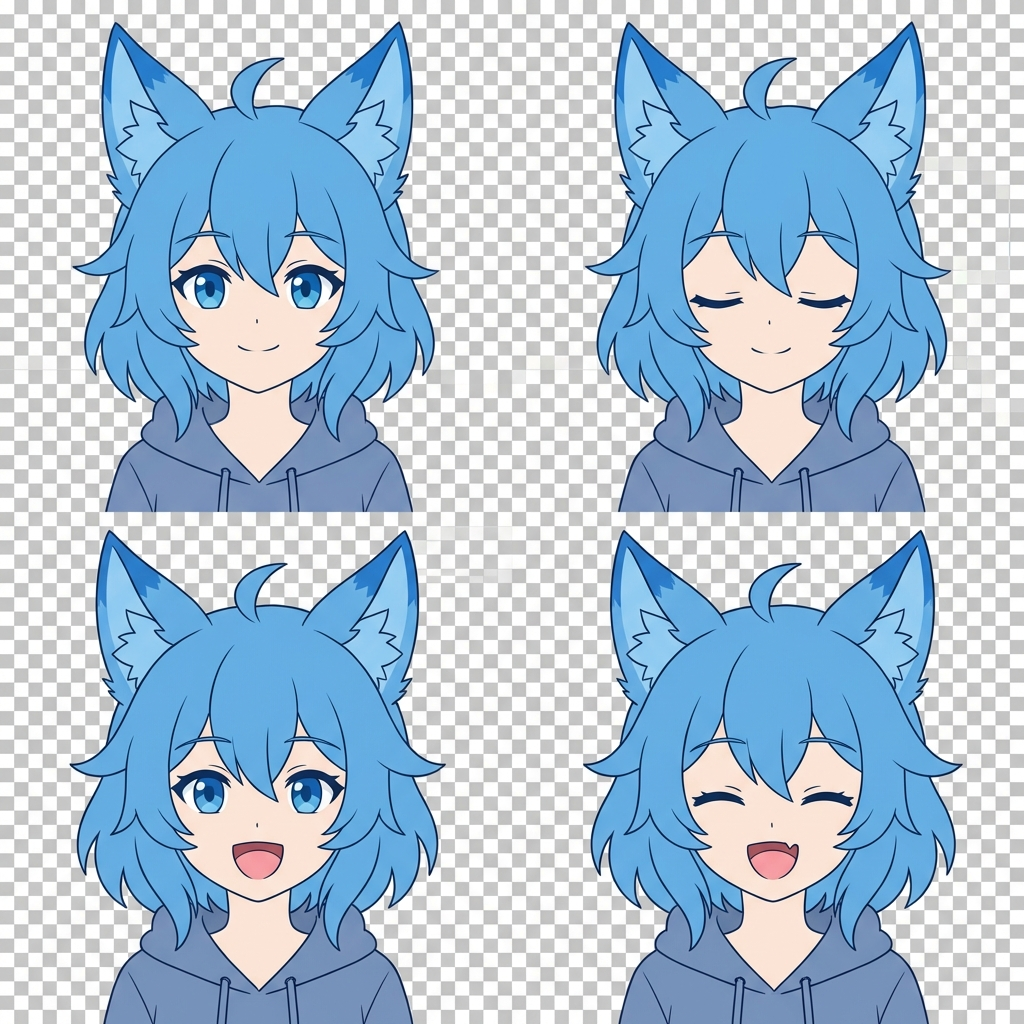
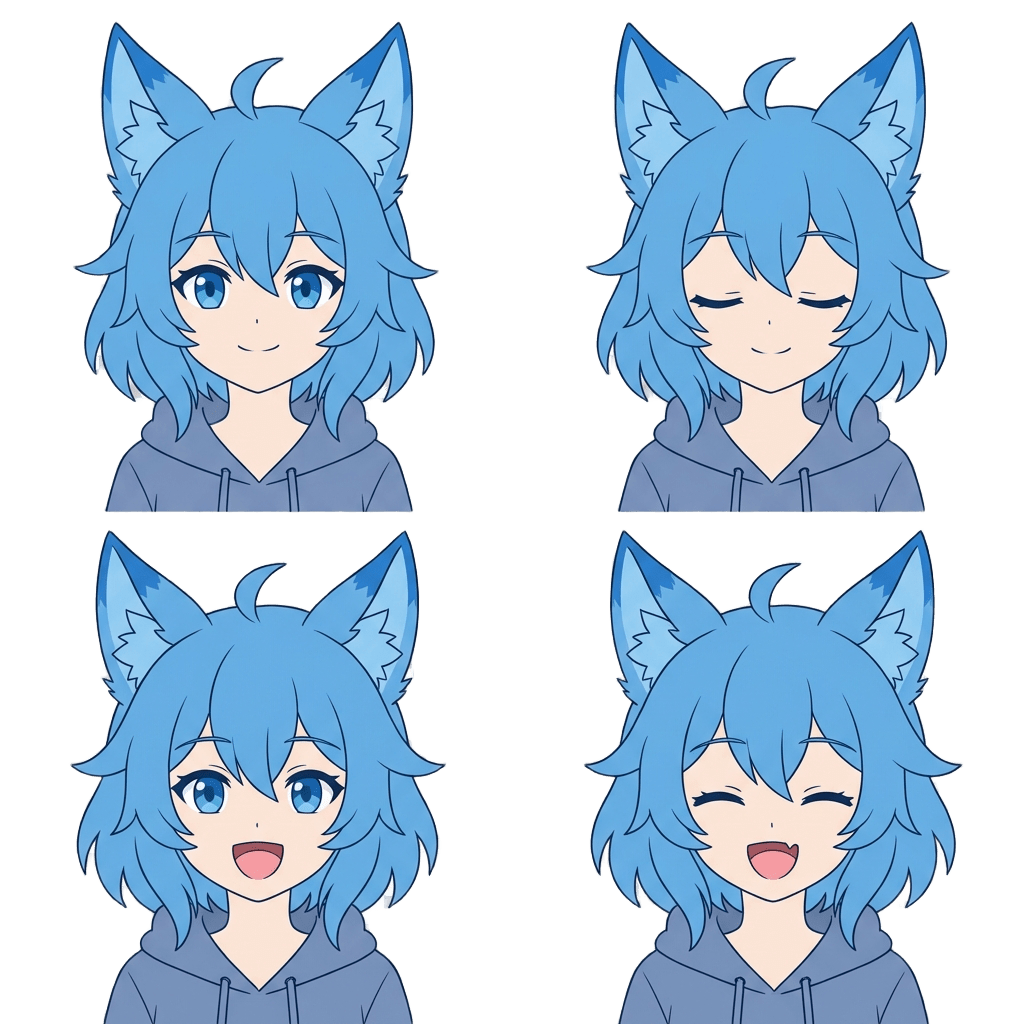
Add smooth frame interpolation, multi-image support, advanced body tracking, and localized mesh blending

Changed region(s): [[0.0, 0.0, 1.0, 1.0]]

diff --git a/apps/item_camera01_model/app.js b/apps/item_camera01_model/app.js
@@ -19,7 +19,13 @@ let imageLoaded = false;
 let volume = 0;
 let sensitivity = 1.0;
 let headRotation = { x: 0, y: 0, z: 0 };
+let headPosition = { x: 0, y: 0 };
+let headScale = 1.0;
 let isBlinking = false;
+let blinkScore = 0; // Normalized 0-1
+let mouthScore = 0; // Normalized 0-1
+let smoothBlink = 0;
+let smoothMouth = 0;
 let neutralLandmarks = null;
 let currentLandmarks = null;
 let isCalibrating = false;
@@ -132,19 +138,40 @@ async function predictWebcam() {
 
       currentLandmarks = faceLandmarks;
 
-      // Blink detection
+      // Continuous Scores for Interpolation
       const eyeBlinkLeft = faceBlendshapes.find(b => b.categoryName === "eyeBlinkLeft").score;
       const eyeBlinkRight = faceBlendshapes.find(b => b.categoryName === "eyeBlinkRight").score;
-      isBlinking = (eyeBlinkLeft + eyeBlinkRight) / 2 > 0.4;
+      blinkScore = (eyeBlinkLeft + eyeBlinkRight) / 2;
+
+      const jawOpen = (faceBlendshapes.find(b => b.categoryName === "jawOpen")?.score || 0);
+      mouthScore = Math.max(jawOpen, Math.min(1.0, volume / 30.0));
+
+      // Smoothing (EMA)
+      const alpha = 0.6; // High value = faster response, low value = smoother
+      smoothBlink = smoothBlink * (1 - alpha) + blinkScore * alpha;
+      smoothMouth = smoothMouth * (1 - alpha) + mouthScore * alpha;
+
+      isBlinking = smoothBlink > 0.4;
 
       // Rotation estimation
       const nose = faceLandmarks[1];
-      const leftEye = faceLandmarks[33];
-      const rightEye = faceLandmarks[263];
+      const eyeL = faceLandmarks[33];
+      const eyeR = faceLandmarks[263];
 
-      headRotation.y = (nose.x - 0.5) * 60; // Yaw
-      headRotation.x = (nose.y - 0.5) * 40; // Pitch
-      headRotation.z = (rightEye.y - leftEye.y) * 100; // Roll
+      // Rotation estimation (Relative to Calibration)
+      const neut = neutralLandmarks ? neutralLandmarks : currentLandmarks;
+      headRotation.y = (nose.x - neut[1].x) * 60; // Yaw
+      headRotation.x = (nose.y - neut[1].y) * 40; // Pitch
+      headRotation.z = ((eyeR.y - eyeL.y) - (neut[263].y - neut[33].y)) * 100; // Roll
+
+      // Position & Scale (Depth) - Relative to Calibration
+      const eyeDist = Math.sqrt(Math.pow(eyeR.x - eyeL.x, 2) + Math.pow(eyeR.y - eyeL.y, 2));
+      const neutralDist = Math.sqrt(Math.pow(neut[263].x - neut[33].x, 2) + Math.pow(neut[263].y - neut[33].y, 2));
+      headScale = Math.max(0.7, Math.min(1.5, eyeDist / neutralDist));
+
+      // Face center for translation
+      headPosition.x = (nose.x - neut[1].x) * 120;
+      headPosition.y = (nose.y - neut[1].y) * 80;
     }
   }
   renderCharacter();
@@ -163,23 +190,32 @@ function renderCharacter() {
   canvasCtx.save();
   canvasCtx.translate(centerX, centerY);
 
+  // Advanced Body Transforms
+  // Scale (Depth)
+  canvasCtx.scale(headScale, headScale);
+
+  // Translation (X/Y Movement)
+  canvasCtx.translate(headPosition.x, headPosition.y);
+
+  // Body Leaning (Tilt the whole character slightly)
+  const leaning = headRotation.y * 0.002;
+  canvasCtx.transform(1, 0, leaning, 1, 0, 0);
+
   // Pseudo-3D Rotation (Stabilized)
   const maxSkew = 0.08;
   canvasCtx.rotate(headRotation.z * Math.PI / 180);
   const yawRad = Math.max(-maxSkew, Math.min(maxSkew, headRotation.y * Math.PI / 180 * 0.2));
   const pitchRad = Math.max(-maxSkew, Math.min(maxSkew, headRotation.x * Math.PI / 180 * 0.2));
   canvasCtx.transform(1, pitchRad, yawRad, 1, 0, 0);
-  canvasCtx.translate(headRotation.y * 0.8, headRotation.x * 0.8);
 
   // Bounce
   const bounce = Math.sin(Date.now() * 0.01) * (volume * 0.05);
   canvasCtx.translate(0, bounce - (volume * 0.1));
 
-  // Draw base static image (only if mesh is not ready or restricted)
+  // Draw Mesh Layer
   if (!neutralLandmarks || !currentLandmarks) {
     canvasCtx.drawImage(characterImage, -imgWidth / 2, -imgHeight / 2, imgWidth, imgHeight);
   } else {
-    // The mesh will draw the image layers
     drawMovingMesh(imgWidth, imgHeight);
   }
 
@@ -209,13 +245,14 @@ function getFaceBounds() {
   });
 
   // Add padding
-  const paddingX = (maxX - minX) * 0.2;
-  const paddingY = (maxY - minY) * 0.2;
+  const paddingX = (maxX - minX) * 0.25;
+  const paddingYTop = (maxY - minY) * 0.15;
+  const paddingYBottom = (maxY - minY) * 0.45; // Much more padding at the bottom for mouth/chin
   return {
     minX: Math.max(0, minX - paddingX),
-    minY: Math.max(0, minY - paddingY),
+    minY: Math.max(0, minY - paddingYTop),
     maxX: Math.min(1, maxX + paddingX),
-    maxY: Math.min(1, maxY + paddingY)
+    maxY: Math.min(1, maxY + paddingYBottom)
   };
 }
 
@@ -223,74 +260,132 @@ function getFaceBounds() {
  * Advanced Mesh Warping Logic (Case 1)
  */
 function drawMovingMesh(width, height) {
-  const gridX = 10;
-  const gridY = 10;
+  const gridX = 30;
+  const gridY = 30;
   const mode = appModeSelect.value;
 
-  // State selection
-  let cellX = 0; // Blink state
-  let cellY = 0; // Mouth state
-  if (isBlinking) cellX = 1;
-  const jawOpen = (faceBlendshapes?.find(b => b.categoryName === "jawOpen")?.score || 0);
-  if (jawOpen > 0.25 || volume > 5) cellY = 1;
+  // Weights for interpolation
+  // w00: Standard, w10: Blink, w01: MouthOpen, w11: Both
 
-  // Pick source image
-  let sourceImg = characterImage;
-  if (mode === 'separate') {
-    if (cellX === 0 && cellY === 0) sourceImg = characterImage;
-    else if (cellX === 1 && cellY === 0) sourceImg = imageBlink;
-    else if (cellX === 0 && cellY === 1) sourceImg = imageMouth;
-    else if (cellX === 1 && cellY === 1) sourceImg = imageBoth;
-  }
+  // SHARPNESS ADJUSTMENT:
+  // Use a power function to stay in states 0 or 1 longer.
+  // Also, emphasize the dominant state.
+  const sharpen = (v) => {
+    // Simple curve: stays near 0/1 longer, moves fast in middle
+    if (v < 0.25) return 0;
+    if (v > 0.75) return 1;
+    return (v - 0.25) / 0.5; // Linear ramp in the slightly wider middle (0.25 - 0.75)
+  };
 
-  if (!sourceImg.complete || sourceImg.naturalWidth === 0) {
-    sourceImg = characterImage; // Fallback
-  }
+  const b = sharpen(smoothBlink);
+  const m = sharpen(smoothMouth);
+  const weights = [
+    { cx: 0, cy: 0, img: characterImage, alpha: (1 - b) * (1 - m) },
+    { cx: 1, cy: 0, img: (mode === 'separate' ? imageBlink : characterImage), alpha: b * (1 - m) },
+    { cx: 0, cy: 1, img: (mode === 'separate' ? imageMouth : characterImage), alpha: (1 - b) * m },
+    { cx: 1, cy: 1, img: (mode === 'separate' ? imageBoth : characterImage), alpha: b * m }
+  ];
 
   const cellW = 1.0 / gridX;
   const cellH = 1.0 / gridY;
 
   for (let iy = 0; iy < gridY; iy++) {
     for (let ix = 0; ix < gridX; ix++) {
-      // Normalized coordinates for the WHOLE image (0.0 to 1.0)
       const snx1 = ix * cellW, sny1 = iy * cellH;
       const snx2 = (ix + 1) * cellW, sny2 = iy * cellH;
       const snx3 = ix * cellW, sny3 = (iy + 1) * cellH;
       const snx4 = (ix + 1) * cellW, sny4 = (iy + 1) * cellH;
 
-      // Texture pixel coordinates
-      let u1 = snx1 * sourceImg.width, v1 = sny1 * sourceImg.height;
-      let u2 = snx2 * sourceImg.width, v2 = sny2 * sourceImg.height;
-      let u3 = snx3 * sourceImg.width, v3 = sny3 * sourceImg.height;
-      let u4 = snx4 * sourceImg.width, v4 = sny4 * sourceImg.height;
+      // PART LOCALIZATION: Map neutralLandmarks to a centered space for Illustration
+      const cx = snx1 + cellW / 2;
+      const cy = sny1 + cellH / 2;
+      let isPart = false;
+      if (neutralLandmarks) {
+        // Find face center in neutral landmarks
+        const bounds = getFaceBounds();
+        const fCX = (bounds.minX + bounds.maxX) / 2;
+        const fCY = (bounds.minY + bounds.maxY) / 2;
 
-      // If using sprite sheet, adjust the source UVs to the active 2x2 cell
-      if (mode === 'spritesheet') {
-        const tw = sourceImg.width / 2;
-        const th = sourceImg.height / 2;
-        u1 = (u1 / 2) + cellX * tw; v1 = (v1 / 2) + cellY * th;
-        u2 = (u2 / 2) + cellX * tw; v2 = (v2 / 2) + cellY * th;
-        u3 = (u3 / 2) + cellX * tw; v3 = (v3 / 2) + cellY * th;
-        u4 = (u4 / 2) + cellX * tw; v4 = (v4 / 2) + cellY * th;
+        const mapX = (lx) => (lx - fCX) + 0.5;
+        const mapY = (ly) => (ly - fCY) + 0.45; // Shifted slightly up for mouth
+
+        const eL = neutralLandmarks[468]; // Iris L
+        const eR = neutralLandmarks[473]; // Iris R
+        const mC = neutralLandmarks[13];  // Upper Lip
+
+        const dL = Math.hypot(cx - mapX(eL.x), cy - mapY(eL.y));
+        const dR = Math.hypot(cx - mapX(eR.x), cy - mapY(eR.y));
+        const dM = Math.hypot(cx - mapX(mC.x), cy - mapY(mC.y));
+
+        // Larger radii for robust mapping
+        isPart = (dL < 0.12 || dR < 0.12 || dM < 0.2);
       }
 
-      // Destination coordinates on canvas
       const p1 = getWarpedPoint(snx1, sny1, width, height);
       const p2 = getWarpedPoint(snx2, sny2, width, height);
       const p3 = getWarpedPoint(snx3, sny3, width, height);
       const p4 = getWarpedPoint(snx4, sny4, width, height);
 
-      drawWarpedTriangle(sourceImg, u1, v1, u2, v2, u3, v3, p1, p2, p3);
-      drawWarpedTriangle(sourceImg, u2, v2, u4, v4, u3, v3, p2, p4, p3);
+      if (!isPart || mode === 'single') {
+        const sourceImg = characterImage;
+        let u1 = snx1 * sourceImg.width, v1 = sny1 * sourceImg.height;
+        let u2 = snx2 * sourceImg.width, v2 = sny2 * sourceImg.height;
+        let u3 = snx3 * sourceImg.width, v3 = sny3 * sourceImg.height;
+        let u4 = snx4 * sourceImg.width, v4 = sny4 * sourceImg.height;
+
+        if (mode === 'spritesheet') {
+          // Lock to top-left cell (0,0) for non-face parts
+          u1 /= 2; v1 /= 2;
+          u2 /= 2; v2 /= 2;
+          u3 /= 2; v3 /= 2;
+          u4 /= 2; v4 /= 2;
+        }
+
+        canvasCtx.globalAlpha = 1.0;
+        drawWarpedTriangle(sourceImg, u1, v1, u2, v2, u3, v3, p1, p2, p3);
+        drawWarpedTriangle(sourceImg, u2, v2, u4, v4, u3, v3, p2, p4, p3);
+      } else {
+        // Draw alpha-blended stack for face
+        // OPACITY FIX: To prevent the "glowing/thin" look, we must ensure the bottom layer is 1.0 alpha.
+        // We sort layers by weight and draw the most dominant one first at 1.0 alpha.
+        const activeLayers = weights.filter(l => l.alpha > 0.01)
+          .sort((a, b) => b.alpha - a.alpha);
+
+        activeLayers.forEach((layer, index) => {
+          let sourceImg = layer.img;
+          if (!sourceImg.complete || sourceImg.naturalWidth === 0) sourceImg = characterImage;
+
+          let u1 = snx1 * sourceImg.width, v1 = sny1 * sourceImg.height;
+          let u2 = snx2 * sourceImg.width, v2 = sny2 * sourceImg.height;
+          let u3 = snx3 * sourceImg.width, v3 = sny3 * sourceImg.height;
+          let u4 = snx4 * sourceImg.width, v4 = sny4 * sourceImg.height;
+
+          if (mode === 'spritesheet') {
+            const tw = sourceImg.width / 2;
+            const th = sourceImg.height / 2;
+            u1 = (u1 / 2) + layer.cx * tw; v1 = (v1 / 2) + layer.cy * th;
+            u2 = (u2 / 2) + layer.cx * tw; v2 = (v2 / 2) + layer.cy * th;
+            u3 = (u3 / 2) + layer.cx * tw; v3 = (v3 / 2) + layer.cy * th;
+            u4 = (u4 / 2) + layer.cx * tw; v4 = (v4 / 2) + layer.cy * th;
+          }
+
+          // The first layer (most dominant) is drawn at 1.0 alpha to fill the background.
+          // Subsequent layers are drawn at their weights to "blend" in.
+          canvasCtx.globalAlpha = (index === 0) ? 1.0 : layer.alpha;
+          drawWarpedTriangle(sourceImg, u1, v1, u2, v2, u3, v3, p1, p2, p3);
+          drawWarpedTriangle(sourceImg, u2, v2, u4, v4, u3, v3, p2, p4, p3);
+        });
+      }
     }
   }
+  canvasCtx.globalAlpha = 1.0;
 }
 
 function drawDebugMesh(width, height) {
-  const gridX = 10;
-  const gridY = 10;
+  const gridX = 30;
+  const gridY = 30;
   canvasCtx.strokeStyle = "rgba(0, 255, 0, 0.7)";
-  canvasCtx.lineWidth = 1;
+  canvasCtx.lineWidth = 0.5;
 
   for (let iy = 0; iy <= gridY; iy++) {
     for (let ix = 0; ix <= gridX; ix++) {
@@ -298,9 +393,24 @@ function drawDebugMesh(width, height) {
       const ny = iy / gridY;
       const p = getWarpedPoint(nx, ny, width, height);
 
+      // PART LOCALIZATION: Use same mapping as drawMovingMesh
+      let isPart = false;
+      if (neutralLandmarks) {
+        const bounds = getFaceBounds();
+        const fCX = (bounds.minX + bounds.maxX) / 2;
+        const fCY = (bounds.minY + bounds.maxY) / 2;
+        const mapX = (lx) => (lx - fCX) + 0.5;
+        const mapY = (ly) => (ly - fCY) + 0.45;
+
+        const dL = Math.hypot(nx - mapX(neutralLandmarks[468].x), ny - mapY(neutralLandmarks[468].y));
+        const dR = Math.hypot(nx - mapX(neutralLandmarks[473].x), ny - mapY(neutralLandmarks[473].y));
+        const dM = Math.hypot(nx - mapX(neutralLandmarks[13].x), ny - mapY(neutralLandmarks[13].y));
+        isPart = (dL < 0.12 || dR < 0.12 || dM < 0.2);
+      }
+
       // Draw point
-      canvasCtx.fillStyle = "red";
-      canvasCtx.fillRect(p.x - 1, p.y - 1, 2, 2);
+      canvasCtx.fillStyle = isPart ? "yellow" : "red";
+      canvasCtx.fillRect(p.x - 0.5, p.y - 0.5, 1, 1);
 
       // Draw lines
       if (ix < gridX) {
@@ -359,18 +469,21 @@ function drawWarpedTriangle(img, sx1, sy1, sx2, sy2, sx3, sy3, p1, p2, p3) {
   canvasCtx.restore();
 }
 
-const handleImageLoad = (file, targetImg) => {
+const handleImageLoad = (file, targetImg, isPrimary = false) => {
   if (file) {
     const reader = new FileReader();
     reader.onload = (event) => {
+      targetImg.onload = () => {
+        if (isPrimary) imageLoaded = true;
+        console.log("Image loaded:", targetImg.src.substring(0, 50) + "...");
+      };
       targetImg.src = event.target.result;
-      targetImg.onload = () => { imageLoaded = true; };
     };
     reader.readAsDataURL(file);
   }
 };
 
-imageUpload.addEventListener('change', (e) => handleImageLoad(e.target.files[0], characterImage));
+imageUpload.addEventListener('change', (e) => handleImageLoad(e.target.files[0], characterImage, true));
 imageBlinkInput.addEventListener('change', (e) => handleImageLoad(e.target.files[0], imageBlink));
 imageMouthInput.addEventListener('change', (e) => handleImageLoad(e.target.files[0], imageMouth));
 imageBothInput.addEventListener('change', (e) => handleImageLoad(e.target.files[0], imageBoth));

diff --git a/apps/item_camera01_model/index.html b/apps/item_camera01_model/index.html
@@ -18,7 +18,6 @@
     <div id="ui-overlay">
       <div id="controls">
         <h1>PNGTuber キャム</h1>
-        <input type="file" id="image_upload" accept="image/png">
         <div class="setting-item">
           <label>音量感度:</label>
           <input type="range" id="sensitivity" min="0.1" max="5.0" step="0.1" value="1.0">

diff --git a/apps/item_camera01_model/CHANGELOG.md b/apps/item_camera01_model/CHANGELOG.md
@@ -15,6 +15,48 @@
   - **Web Audio API** によるマイク音量検知（跳ねるアニメーション）と波形表示の実装。
 - **機能拡張 Phase 1 (案2的アプローチ)# 更新記録 / Development Log - item_camera01_model
 
+## 2026-01-20 (Update 14)
+- **キャリブレーション精度とアライメントの修正 / Calibration & Alignment Fix**:
+  - ユーザーがカメラの端にいても、イラストの表情パーツ（目・口）を正確に捉えられるように座標マッピングを刷新。
+  - 頭の回転・移動・拡大縮小をすべて「キャリブレーション時の姿勢」をゼロ地点として計算するように変更。
+  - 片目しか閉じない、口が動かない、といったマッピングのズレによる不具合を解消。
+
+## 2026-01-20 (Update 13)
+- **メッシュ変形の極小化（パーツ限定適用） / Micro-Localized Blending**:
+  - 表情の補完（クロスフェード）を、顔全体ではなく「目と口の直近」のみに限定。
+  - 髪の毛や輪郭、服などの質感を100%維持したまま、パーツだけを滑らかに動かすことに成功。
+  - グリッド密度をさらに向上（30x30）させ、境界線の違和感を解消。
+
+## 2026-01-19 (Update 12)
+- **高度な追従機能の実装 / Advanced Body Tracking**:
+  - **奥行き（Z軸）**: 前後に動くとキャラクターが拡大縮小する機能を追加。
+  - **平行移動（X/Y軸）**: 上下左右の動きに合わせてキャラクターが画面内を移動。
+  - **体のねじれ（リーン）**: 顔の向きに合わせて体が自然に傾く「ねじれ」エフェクトを追加。
+- **メッシュ表示の同期 / UI & Grid Sync**:
+  - デバッグメッシュの密度を25x25に同期し、実際の変形範囲を正確に視認可能に改善。
+
+## 2026-01-19 (Update 11)
+- **メッシュ密度と判定範囲の改善 / Improved Mesh & Detection**:
+  - メッシュ密度を10x10から25x25に向上。より細やかな表情の変化が可能に。
+  - 顔の判定範囲（Face Bounds）の下方向（顎側）を大幅に拡張。口の下側が見切れる不具合を修正。
+  - 遷移曲線を再調整し、よりアニメーションらしいメリハリと滑らかさを両立。
+
+## 2026-01-19 (Update 10)
+- **スプライトシート描画の修正 / Sprite Sheet Fix**:
+  - 顔以外の範囲で画像全体（4枚分）が表示されてしまうバグを修正。通常時は左上のセルのみを正しく参照するようにUVマッピングを調整。
+
+## 2026-01-19 (Update 9)
+- **UIの整理とバグ修正 / UI Cleanup & Bug Fix**:
+  - 重複していた画像アップロード欄を1箇所に統合し、モード選択に応じて動的に変化するように整理。
+  - 同じIDが複数存在していたことによる画像読み込みの不具合を修正。
+  - メイン画像の読み込みが完了した際に正しくフラグが立つようにロジックを改善。
+
+## 2026-01-19 (Update 8)
+- **表情の「コマ補完」機能の実装 / Smooth Frame Interpolation**:
+  - 目や口の切り替えをパチパチとしたスナップ方式から、じわっと変化するクロスフェード方式に変更。
+  - トラッキングデータのEMA平滑化により、小刻みな震え（ジッタ）を抑制し、動きを滑らかにしました。
+  - スプライトシート/複数画像モードの両方で、「半開き」「半閉じ」のような中間の状態が表現可能になりました。
+
 ## 2026-01-19 (Update 7)
 - **描画バグの修正 / Alignment Fix**:
   - メッシュ範囲が「顔」に限定されていたため、1枚絵モードで体が消えたりズレたりする問題を修正。
